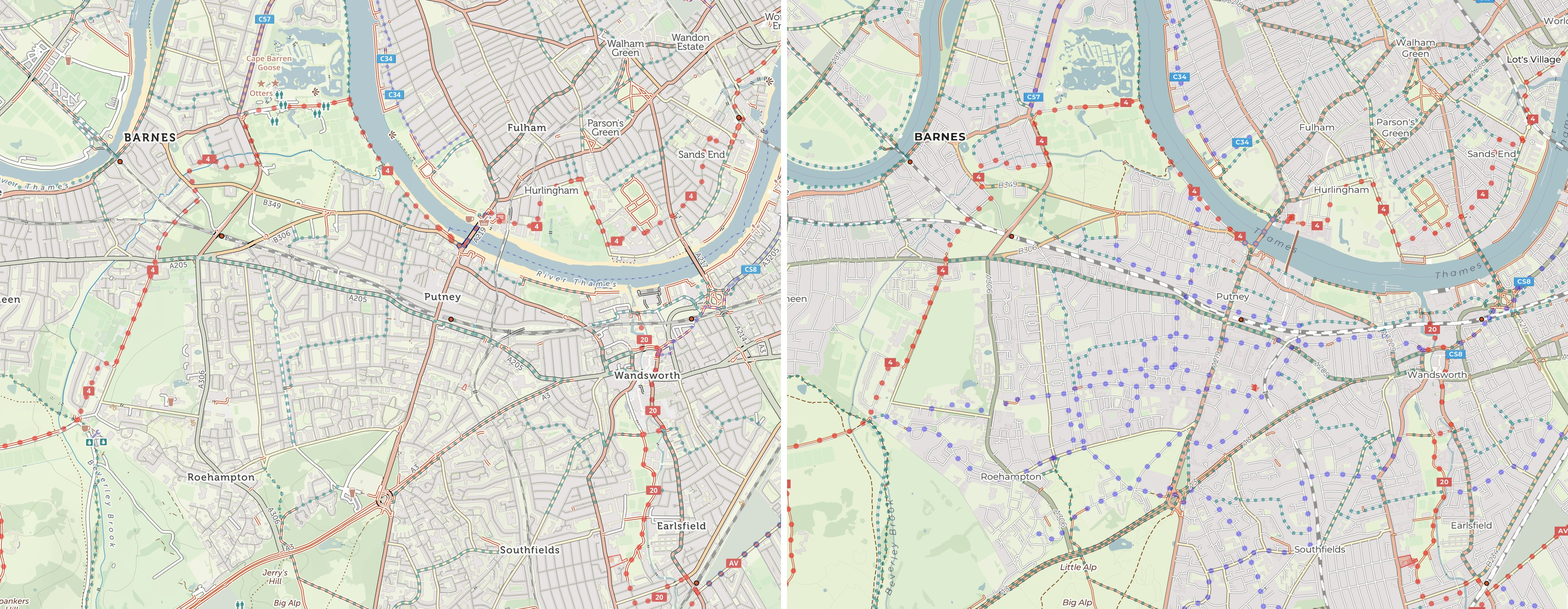
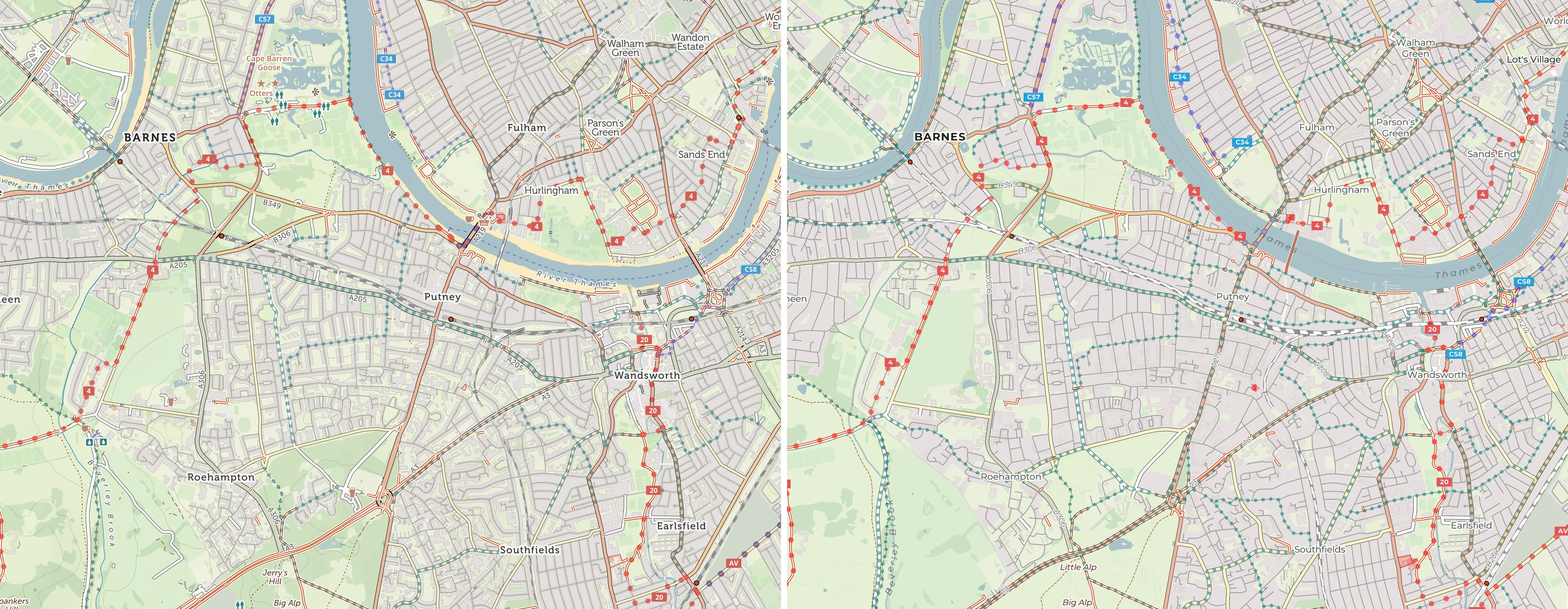
Draw permissive and graded paths as unpaved, and re-take the comparisons
cycle.travel draws an untagged path or footway that is only bicycle=permissive,
and any track graded 2-5, as brown dashes; we drew them red. Measured over
Colchester's Middlewick ranges and High Woods at ct z13, 97-100% of untagged
permissive paths are brown there. CyclingProfile.pathClass now follows that.

All ten comparison views are re-taken after batch D, with Colchester z12
added as the path rule's test view. The prototype side is captured headless
(capture/ml-headless.mjs) and colour-mapped to the display captures of
cycle.travel with analysis/lut.py, since cycle.travel refuses headless Chrome.

Changed region(s): [[0.4976, 0.0, 1.0, 1.0], [0.5598, 0.5938, 0.5909, 0.625], [0.4976, 0.7188, 0.5287, 0.75]]

diff --git a/maps/tiles/src/main/java/cc/rideon/maps/CyclingProfile.java b/maps/tiles/src/main/java/cc/rideon/maps/CyclingProfile.java
@@ -180,8 +180,11 @@ public class CyclingProfile implements Profile {
   /**
    * cycle.travel's path rule, checked against its tiles over Richmond Park: paved paths you can ride draw red and white
    * ({@code p}), unpaved ones (gravel cycleways, bridleways) brown dashes ({@code u}), and other footpaths, including
-   * bridleways closed to bikes, green dashes ({@code foot}). With no surface tag, cycleways and urban path types count
-   * as paved, bridleways and tracks as unpaved. A bicycle tag overrides a private access tag, so private drives and
+   * bridleways closed to bikes, green dashes ({@code foot}). With no surface tag, a tracktype other than grade1 means
+   * unpaved; otherwise cycleways, urban path types and paths open to bikes by right or designation count as paved,
+   * bridleways, tracks and {@code bicycle=permissive} paths and footways as unpaved. Over Colchester (Middlewick, High
+   * Woods) cycle.travel draws 97–100% of untagged permissive paths brown, in woods, fields, parks and towns alike, and
+   * most untagged {@code bicycle=yes} paths red. A bicycle tag overrides a private access tag, so private drives and
    * estate roads open to bikes draw as paths too. Returns null for ways not drawn as paths.
    */
   static String pathClass(WithTags way) {
@@ -202,8 +205,19 @@ public class CyclingProfile implements Profile {
       return footpath ? "foot" : null;
     }
     String surface = way.getString("surface");
-    boolean paved = surface != null ? PAVED.contains(surface) :
-      highway.equals("track") ? way.hasTag("tracktype", "grade1") : !highway.equals("bridleway");
+    String tracktype = way.getString("tracktype");
+    boolean paved;
+    if (surface != null) {
+      paved = PAVED.contains(surface);
+    } else if (tracktype != null) {
+      paved = tracktype.equals("grade1");
+    } else {
+      paved = switch (highway) {
+        case "track", "bridleway" -> false;
+        case "path", "footway" -> !bicycle.equals("permissive");
+        default -> true;
+      };
+    }
     return paved ? "p" : "u";
   }
 

diff --git a/maps/tiles/src/test/java/cc/rideon/maps/CyclingProfileTest.java b/maps/tiles/src/test/java/cc/rideon/maps/CyclingProfileTest.java
@@ -163,8 +163,11 @@ class CyclingProfileTest {
     "highway=cycleway, p",
     "highway=cycleway surface=asphalt, p",
     "highway=path bicycle=designated, p",
+    "highway=path bicycle=yes, p",
     "highway=footway bicycle=yes surface=paving_stones, p",
+    "highway=footway bicycle=permissive surface=asphalt, p",
     "highway=pedestrian bicycle=permissive, p",
+    "highway=bridleway tracktype=grade1, p",
     "highway=track bicycle=yes tracktype=grade1, p",
     "highway=footway footway=sidewalk bicycle=designated, p",
     // Private drives and estate roads open to bikes, as cycle.travel draws them around Wix and Domsey Chase.
@@ -179,6 +182,11 @@ class CyclingProfileTest {
     "highway=bridleway surface=asphalt, p",
     "highway=track bicycle=designated, u",
     "highway=path bicycle=designated surface=compacted, u",
+    // Permissive paths and footways, as cycle.travel draws Middlewick and High Woods in Colchester.
+    "highway=path bicycle=permissive, u",
+    "highway=footway bicycle=permissive, u",
+    "highway=path bicycle=yes tracktype=grade2, u",
+    "highway=cycleway tracktype=grade3, u",
     // Footpaths.
     "highway=footway, foot",
     "highway=path, foot",

diff --git a/docs/maps/prototype/analysis/lut.py b/docs/maps/prototype/analysis/lut.py
@@ -1,0 +1,25 @@
+# fit: lut.py fit out.json (headless.png display.png)...   apply: lut.py apply lut.json in.png out.png
+import sys, json
+import numpy as np
+from PIL import Image
+def load(p): return np.asarray(Image.open(p).convert('RGB')).astype(np.int32)
+if sys.argv[1] == 'fit':
+    pairs = sys.argv[3:]
+    lut = []
+    for ch in range(3):
+        sums = np.zeros(256); counts = np.zeros(256)
+        for a, b in zip(pairs[0::2], pairs[1::2]):
+            A, B = load(a)[..., ch].ravel(), load(b)[..., ch].ravel()
+            for v in range(256):
+                m = A == v
+                if m.any(): sums[v] += np.median(B[m]) * m.sum(); counts[v] += m.sum()
+        known = counts > 50
+        xs = np.nonzero(known)[0]; ys = sums[known] / counts[known]
+        lut.append(np.interp(np.arange(256), xs, ys).round().clip(0, 255).astype(int).tolist())
+    json.dump(lut, open(sys.argv[2], 'w'))
+    print('fitted on', len(pairs)//2, 'pairs')
+else:
+    lut = np.array(json.load(open(sys.argv[2])), dtype=np.uint8)
+    A = load(sys.argv[3]).astype(np.uint8)
+    out = np.stack([lut[c][A[..., c]] for c in range(3)], axis=-1)
+    Image.fromarray(out).save(sys.argv[4])

diff --git a/docs/maps/README.md b/docs/maps/README.md
@@ -275,8 +275,11 @@ lanes, streets and main-line railways below the basemap's zooms from a new overl
 near-black hairline casing (dark grey at z11); trunk roads far paler than the key, as motorways are;
 unclassified lanes and tertiary roads white/cream with a dark casing from z11 and grey below, and only
 tertiary roads at z9, as cycle.travel's z10; residential streets a solid grey line until z14, as
-cycle.travel's z15. Station throats at z14 still draw
-every platform track. The overlay changes need the rebuilt overlay.
+cycle.travel's z15. Paths with no `surface` follow cycle.travel's rule more closely: a `tracktype` other
+than grade1 is unpaved, and so is a path or footway open to bikes only by `bicycle=permissive`, as on
+Colchester's Middlewick ranges and in High Woods (style spec, [Cycle paths and footpaths](cycle-travel-style.md#cycle-paths-and-footpaths)).
+Station throats at z14 still draw every platform track. The overlay changes need the rebuilt overlay; the
+comparisons below use one built with them (`cycling-gb-20261017`).
 
 Screenshot colours depend on the display the tab is on ([style spec](cycle-travel-style.md#colour-sampling)):
 capture cycle.travel and the prototype on the same display, and sample new colours only on a P3 one,
@@ -496,7 +499,9 @@ dark mode, §6 `CycleMap`, `RideHero`, `WindRouteMap`).
 
 The method is in [`prototype/README.md`](prototype/README.md#comparing-against-cycletravel): Chrome
 DevTools MCP, 1200×800 at DPR 2, cycle.travel's sidebar hidden, MapLibre zoom = ct zoom − 1,
-`analysis/pair2.py` to pair them. Re-take all six views after any WS2 change and attach them to the PR.
+`analysis/pair2.py` to pair them. Re-take all ten views after any WS2 change and attach them to the PR.
+The prototype's side can be captured headless (`capture/ml-headless.mjs`, then `analysis/lut.py` for the
+display's colours); cycle.travel's can't.
 On device, compare an iPhone screenshot with cycle.travel's mobile site at the same place and zoom.
 
 Don't scrape, proxy or bulk-download cycle.travel's tiles or APIs. Screenshots of the public page are
@@ -504,21 +509,26 @@ fine for comparison.
 
 ## Comparison screenshots
 
-cycle.travel left, prototype right; 4116×1600, DPR 2. Zooms are MapLibre (ct = +1). All nine re-taken in
-WS2.5 after the lines batch, on the planetiler overlay with the sprite's badges and POI icons; Westminster
-z14, Surrey Hills z12 and Harwich z10 again after the labels batch.
+cycle.travel left, prototype right; 4116×1600, DPR 2. Zooms are MapLibre (ct = +1). All ten re-taken on
+18 October 2026 after batch D, on an overlay built with its changes (`cycling-gb-20261017`). cycle.travel
+was captured in a display Chrome on the sRGB display with the DevTools MCP; it returns 403 to headless
+Chrome. The prototype was captured headless and its colours mapped to that display's with a per-channel
+curve fitted on paired captures: 94–98% of pixels within 2/255, geometry identical
+([method](prototype/README.md#comparing-against-cycletravel)). Colours sampled from these images carry the
+sRGB display's skew.
 
 | View | What to look at |
 |---|---|
-| [London, z9](screenshots/cmp-london-z9.jpg) (51.45, −0.15) | National routes and EuroVelo match. cycle.travel hides regional routes here; we show blue rcn everywhere and clusters in central London. cycle.travel has hillshade, railways and a dense grey minor-road net; our basemap has neither below z11 |
-| [London, z11](screenshots/cmp-london-z11.jpg) (51.48, −0.17) | Route dots, railways and motorways match in weight. cycle.travel shows a dense net of thin red cycleways and lanes; ours start at z12. Too many saturated blue London rcn dots and C badges vs its few thin lavender lines. It shows more minor streets |
-| [Putney, z13](screenshots/cmp-putney-z13.jpg) (51.462, −0.215) | Badges (4, 20, C34, CS8, AV), dots and lcn teal match in place. We draw blue rcn across Roehampton and Southfields that cycle.travel doesn't. It has more POI icons and a beige Thames foreshore |
-| [Westminster, z14](screenshots/cmp-westminster-z14.jpg) (51.5005, −0.128) | Street labels, LONDON spacing, Charing Cross, Q and C3 dots match; NCN 4 and the Avenue Verte are one red dotted line along the Albert Embankment, as on cycle.travel. Waterloo and Victoria's platform tracks read heavier than cycle.travel's; landmarks mostly match (Palace of Westminster, The Mound), but we name Burlington House and cycle.travel the London Eye; cycle.travel's London rcn dots are smaller and closer. It shows more POI icons in the parks |
-| [Richmond Park, z13](screenshots/cmp-richmond-park-z13.jpg) (51.4455, −0.2665) | NCN 4 on red-and-white paths and brown unpaved dashes match; built-up, park, wood and golf fills match. C30 is lavender there, blue here; extra rcn around Roehampton. It shows more toilet, café and parking icons |
-| [Surrey Hills, z12](screenshots/cmp-surrey-hills-z12.jpg) (51.245, −0.33) | NCN 22 and the railways match. cycle.travel has hillshade and contours; draws rcn as thin lavender lines with small dots; shows POI icons. Hamlets and farms now match: neither names farms, and hamlets are small. Our brown dashes are heavier |
-| [Harwich, z9](screenshots/cmp-harwich-z9.jpg) (51.93, 1.2) | EuroVelo and national dots: size, colours and spacing match; no ferry dots across the North Sea. cycle.travel has railways, station dots and minor roads our basemap lacks below z11 |
-| [Harwich, z10](screenshots/cmp-harwich-z10.jpg) | As z9; regional routes appear on both. cycle.travel draws them as dots on a thin blue line, ours as dots alone; it shows a EuroVelo badge at Colchester (ours start at z11). Station dots along the Clacton line, Wrabness and Trimley match; Manningtree, Mistley and Woodbridge's are under our bolder town names |
-| [Harwich, z11](screenshots/cmp-harwich-z11.jpg) | EuroVelo ring and centre colours, sizes and spacing match. Railways appear on both |
+| [London, z9](screenshots/cmp-london-z9.jpg) (51.45, −0.15) | National routes and EuroVelo match, and regional routes are hidden here on both. Lanes and main-line railways now draw on both (ours from `low_roads`). cycle.travel has hillshade and a denser minor-road net |
+| [London, z11](screenshots/cmp-london-z11.jpg) (51.48, −0.17) | Route dots, railways and motorways match in weight, and so does the dense net of thin red paths and lanes. cycle.travel draws TfL Q routes as thin lavender lines (ours start at z12) and the Avenue Verte as slate dots with AV badges (ours red, as national). It shows more minor streets |
+| [Putney, z13](screenshots/cmp-putney-z13.jpg) (51.462, −0.215) | Badges (4, 20, C34, C57, CS8), dots and lcn teal match in place; the blue rcn across Roehampton has gone, as on cycle.travel. It has more POI icons and a beige Thames foreshore |
+| [Westminster, z14](screenshots/cmp-westminster-z14.jpg) (51.5005, −0.128) | LONDON spacing, Charing Cross, Whitehall and the Palace of Westminster match; NCN 4 and the Avenue Verte are one red dotted line along the Albert Embankment, but we add AV badges there that cycle.travel doesn't. Waterloo and Victoria's platform tracks read heavier (station throats, still open). We draw more teal lcn; cycle.travel shows more street labels and POI icons, and names the London Eye where we name Burlington House |
+| [Richmond Park, z13](screenshots/cmp-richmond-park-z13.jpg) (51.4455, −0.2665) | NCN 4 on red-and-white paths, brown unpaved dashes, lcn teal and the built-up, park, wood and golf fills match. C30 is a lavender line there, violet dots here. It shows more toilet, café and parking icons |
+| [Surrey Hills, z12](screenshots/cmp-surrey-hills-z12.jpg) (51.245, −0.33) | NCN 22, the railways, hamlets and farms match. cycle.travel has hillshade and contours. A few bare `footway` + `bicycle=yes` stubs across fields near White Hill and Dunley Hill draw red here and not at all there. Our brown dashes are heavier |
+| [Harwich, z9](screenshots/cmp-harwich-z9.jpg) (51.93, 1.2) | EuroVelo and national dots: size, colours and spacing match; no ferry dots across the North Sea. Railways and minor roads now draw on both |
+| [Harwich, z10](screenshots/cmp-harwich-z10.jpg) | As z9; regional routes are dots on a thin blue line on both. Station dots along the Clacton line, Wrabness and Trimley match. cycle.travel shows a EuroVelo badge at Colchester (ours start at z11) and names more villages (Whatfield, Lindsey, Flowton); our town names are bolder |
+| [Harwich, z11](screenshots/cmp-harwich-z11.jpg) | EuroVelo ring and centre colours, sizes and spacing match; railways and station dots on both. cycle.travel draws the Harwich ferry dashed (ours left out on purpose) and names Wrabness and Bradfield, which we don't |
+| [Colchester, z12](screenshots/cmp-colchester-z12.jpg) (51.8787, 0.964) | The path rule's test view. Middlewick's and High Woods' permissive paths are brown dashes on both, with the same few red stretches. Routes 1 and 51 and the EuroVelo dots match; cycle.travel badges EuroVelo 2 beside the 51 shield, we show only the 51. It shows café and pub icons; ours start at z14 |
 
 ## Links
 

diff --git a/docs/maps/cycle-travel-style.md b/docs/maps/cycle-travel-style.md
@@ -230,8 +230,10 @@ classifies every path itself. cycle.travel's rule, worked out against its Richmo
 | `cycleway`, `bridleway`, or `path`/`footway`/`pedestrian`/`track` with `bicycle=yes`/`designated`/`permissive` | `p` or `u` | Cycle path |
 | … with a paved `surface` (asphalt, paved, concrete*, paving_stones, sett, chipseal, metal, wood, bricks) | `p` | Red casing, white centre |
 | … with any other `surface` | `u` | Brown dashes |
-| … with no `surface`: `cycleway` and urban path types | `p` | Red and white |
-| … with no `surface`: `bridleway`; `track` unless `tracktype=grade1` | `u` | Brown dashes |
+| … with no `surface` but a `tracktype`: `grade1` | `p` | Red and white |
+| … with no `surface` but a `tracktype`: any other grade | `u` | Brown dashes |
+| … with neither: `cycleway`, `pedestrian`, and `path`/`footway` with `bicycle=yes`/`designated` | `p` | Red and white |
+| … with neither: `bridleway`, `track`, and `path`/`footway` with `bicycle=permissive` | `u` | Brown dashes. Measured over Colchester at ct z13: 97–100% of untagged permissive paths draw brown, in woods, fields, parks and towns alike; untagged `bicycle=yes` ones mostly red |
 | Any other `footway`, `path`, `steps` or `track`, except pavements and crossings (`footway=sidewalk`/`crossing`) and `access=private`/`no` | `foot` | Footpath (green dots) |
 
 Tunnels and `area=yes` are skipped. Lines with the same class are merged end to end in each tile so
@@ -558,7 +560,7 @@ them is dropped. The tests check every stack has its glyphs and every glyph dire
 
 ## Known gaps
 
-From the nine comparisons in `screenshots/`. Tick them off in WS2.
+From the ten comparisons in `screenshots/`. Tick them off in WS2.
 
 - [ ] Hillshade and contours (needs a DEM, WS1)
 - [x] POI icons: café, pub, toilets, water, bike parking, bike shop, campsite, viewpoint (WS2.4b; no car
@@ -585,6 +587,18 @@ From the nine comparisons in `screenshots/`. Tick them off in WS2.
 - [x] A/B roads a constant 4 px from z12 with a near-black hairline casing, dark grey at z11; lanes and tertiary roads as
   cycle.travel's key draws them, grey below z11; only tertiary roads at z9 (WS2.5)
 - [ ] Station throats lighter at z14 (Waterloo, Victoria)
+- [x] Untagged permissive paths and graded tracks as brown dashes (WS2.5 batch D: `bicycle=permissive`
+  paths and footways with no `surface`, and `tracktype` grade2–5, are unpaved; Colchester's Middlewick and
+  High Woods)
+- [ ] Bare `highway=footway` + `bicycle=yes` stubs across fields draw red where cycle.travel draws nothing
+  (Surrey Hills near White Hill and Dunley Hill, OSM ways 525650801, 525650803, 525650805). It may leave
+  out ways that don't join its routable network
+- [ ] EuroVelo badges: cycle.travel badges EuroVelo beside a shared national route (Colchester z12: a
+  EuroVelo 2 badge beside the 51 shield, where we show only the 51) and from our z10
+- [ ] AV badges along the Albert Embankment at z14 that cycle.travel doesn't draw
+- [ ] TfL Q routes as thin lavender lines at z11 (ours start at z12)
+- [ ] Village names: cycle.travel names more at z10 (Whatfield, Lindsey, Flowton) and Wrabness and
+  Bradfield at z11; our town names are bolder
 - [x] Bolder railways; paler, thinner motorways when zoomed out (WS2.5)
 - [x] Railways: no tunnels (the Underground), thin sidings and yards with no white core (WS2.5)
 - [x] EuroVelo dots: opaque slate/lavender ring, red centre (WS2.5)

diff --git a/docs/maps/prototype/README.md b/docs/maps/prototype/README.md
@@ -68,6 +68,14 @@ The screenshots were taken with the Chrome DevTools MCP server. The method, so n
 4. `analysis/pair2.py ct.png ml.png out.jpg 350 1`. cycle.travel's map still lays out as if the sidebar
    were there, so its features sit 350 device px to the right of ours; the script crops that off.
 
+**Headless prototype captures.** `bun capture/ml-headless.mjs <outDir> [view ...]` captures the prototype
+for the ten comparison views in headless Chrome, with no MCP needed. Headless Chrome renders colours
+slightly differently from a display tab, and cycle.travel returns 403 to it, so cycle.travel's side still
+comes from a display Chrome (steps 1–2). Map the headless colours to that display's before pairing:
+`analysis/lut.py apply analysis/lut-srgb.json ml.png ml-disp.png`. `lut-srgb.json` was fitted
+(`lut.py fit`) on headless and display captures of the same views on the sRGB display; 94–98% of pixels
+land within 2/255, and geometry is identical. Refit it on any other display.
+
 **Zoom offset.** cycle.travel is Leaflet with 256 px tiles; MapLibre uses 512 px tiles. cycle.travel zoom
 *n* is MapLibre zoom *n − 1*. Every zoom in the style doc is given in MapLibre zooms unless it says "ct".
 
@@ -97,6 +105,7 @@ Run them with `-I` and paths as arguments. All measurements are in device pixels
 | `lanes.py`, `lanes2.py` | Line width and darkness, prototype vs cycle.travel, at a list of points; `lanes2.py` groups by road kind |
 | `abprof.py` | Profiles across Colchester's A133 and B1027 at several zooms: casing, fill and width against cycle.travel |
 | `dotsize.py` | Diameters of red route dots |
+| `lut.py` + `lut-srgb.json` | Fit and apply a per-channel colour curve from headless captures to a display's |
 | `runw.py` | Run lengths of A-road (pink) and B-road (orange) fill, i.e. road fill widths |
 
 The tools that compare two captures take `dx`, cycle.travel's horizontal offset in device px. It is 350

diff --git a/maps/tiles/README.md b/maps/tiles/README.md
@@ -53,9 +53,10 @@ Zooms 11–14, or 12–14 for London's, which show with their dots.
 | `bridge` | `true` on bridges |
 
 Rideable: `highway=cycleway` or `bridleway`, or a path, footway, pedestrian way or track with
-`bicycle=yes/designated/permissive`, unless `bicycle=no` or `access=private/no`. With no `surface`,
-cycleways and urban paths count as paved, bridleways and tracks (other than `tracktype=grade1`) as
-unpaved. `foot` is every other footway, path, steps or track, except pavements, crossings and private
+`bicycle=yes/designated/permissive`, unless `bicycle=no` or `access=private/no`. With no `surface`, a
+`tracktype` other than `grade1` means unpaved; otherwise cycleways, pedestrian ways and paths or footways
+with `bicycle=yes/designated` count as paved, bridleways, tracks and `bicycle=permissive` paths and
+footways as unpaved. `foot` is every other footway, path, steps or track, except pavements, crossings and private
 ways; bridleways with `bicycle=no/dismount` are `foot` too. No tunnels or areas.
 
 Zooms: `p` and `u` 11–14 (cycle.travel draws them from its z12), `foot` 14.
@@ -149,7 +150,7 @@ docker run --rm -v "$PWD/maps/tiles":/src -v ~/.m2:/root/.m2 -w /src \
   maven:3.9-eclipse-temurin-21 mvn -B -q test
 ```
 
-132 tests; they run in under 2 seconds once Maven has its cache. Add a case to the matching table in
+139 tests; they run in under 2 seconds once Maven has its cache. Add a case to the matching table in
 `CyclingProfileTest` when a rule changes.
 
 ## Publish
